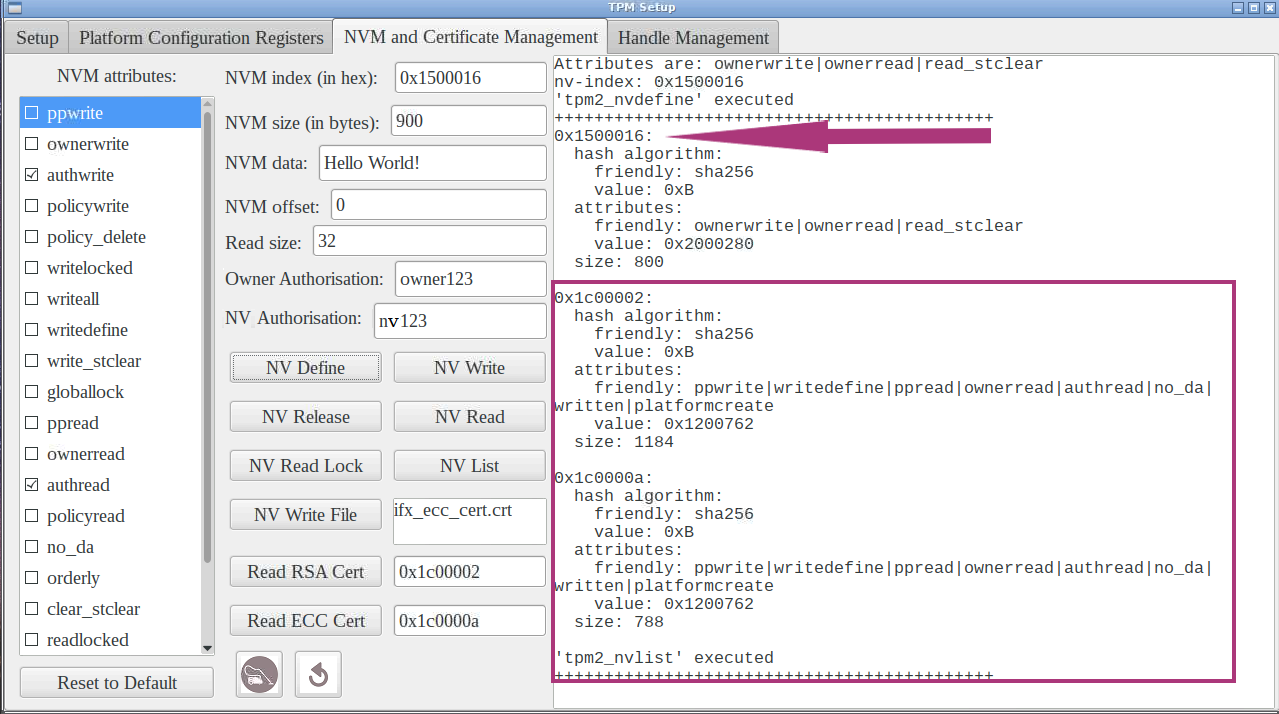
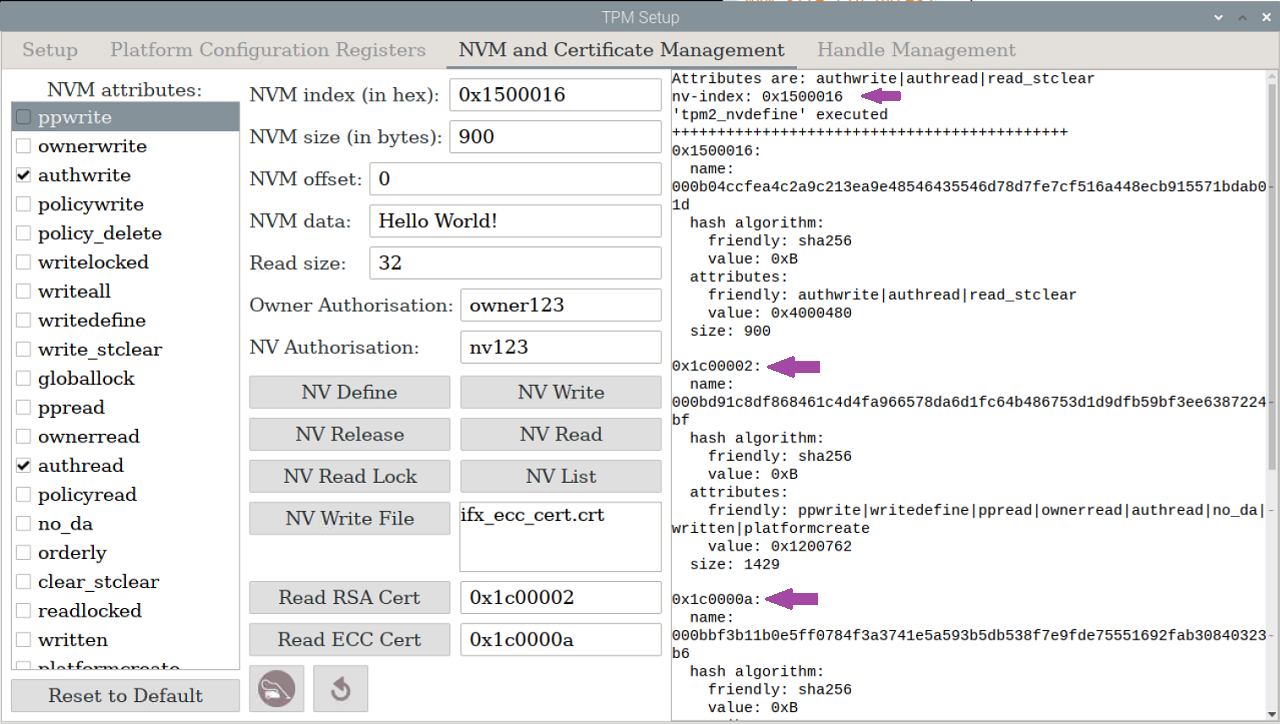
1) Add support for SLB 9672 in README.md
2) Updated NV define section diagram with correct attributes for nv-index 0x1500016

diff --git a/README.md b/README.md
@@ -41,7 +41,8 @@ Tool highlights include the opportunity to explore OPTIGA™ TPM 2.0 features an
 -   Raspberry Pi 3 Model B+/ Raspberry Pi 4 Model B
 -   Micro SD card (≥8GB)
 -   OPTIGA™ TPM 2.0 evaluation board
-    -   [Iridium SLB 9670 TPM2.0](https://www.infineon.com/cms/en/product/evaluation-boards/iridium9670-tpm2.0-linux/)
+    -   [IRIDIUM9670 TPM2.0 LINUX](https://www.infineon.com/cms/en/product/evaluation-boards/iridium9670-tpm2.0-linux/)
+    -   [OPTIGA™ TPM SLB 9672 RPI evaluation board](https://www.infineon.com/cms/en/product/evaluation-boards/optiga-tpm-9672-rpi-eval/)
     
 
 | ![](/images/Overview/TPMRPI3.png) |
@@ -49,7 +50,7 @@ Tool highlights include the opportunity to explore OPTIGA™ TPM 2.0 features an
 
 ## Setup environment
 
-This tool was tested on a Raspberry Pi 3 Model B+/ 4 Model B with Raspbian Linux release version 11 (Bullseye) and kernel version 5.10.92 using an Infineon OPTIGA™ TPM SLB 9670 TPM2.0 evaluation board attached to the Raspberry Pi board.
+This tool was tested on a Raspberry Pi 3 Model B+/ 4 Model B with Raspbian Linux release version 11 (Bullseye) and kernel version 5.10.92 using an Infineon OPTIGA™ TPM SLB 9670/72 TPM2.0 evaluation board attached to the Raspberry Pi board.
 
 The following software is required for the OPTIGA™ TPM 2.0 Explorer:
 - python-wxtools
